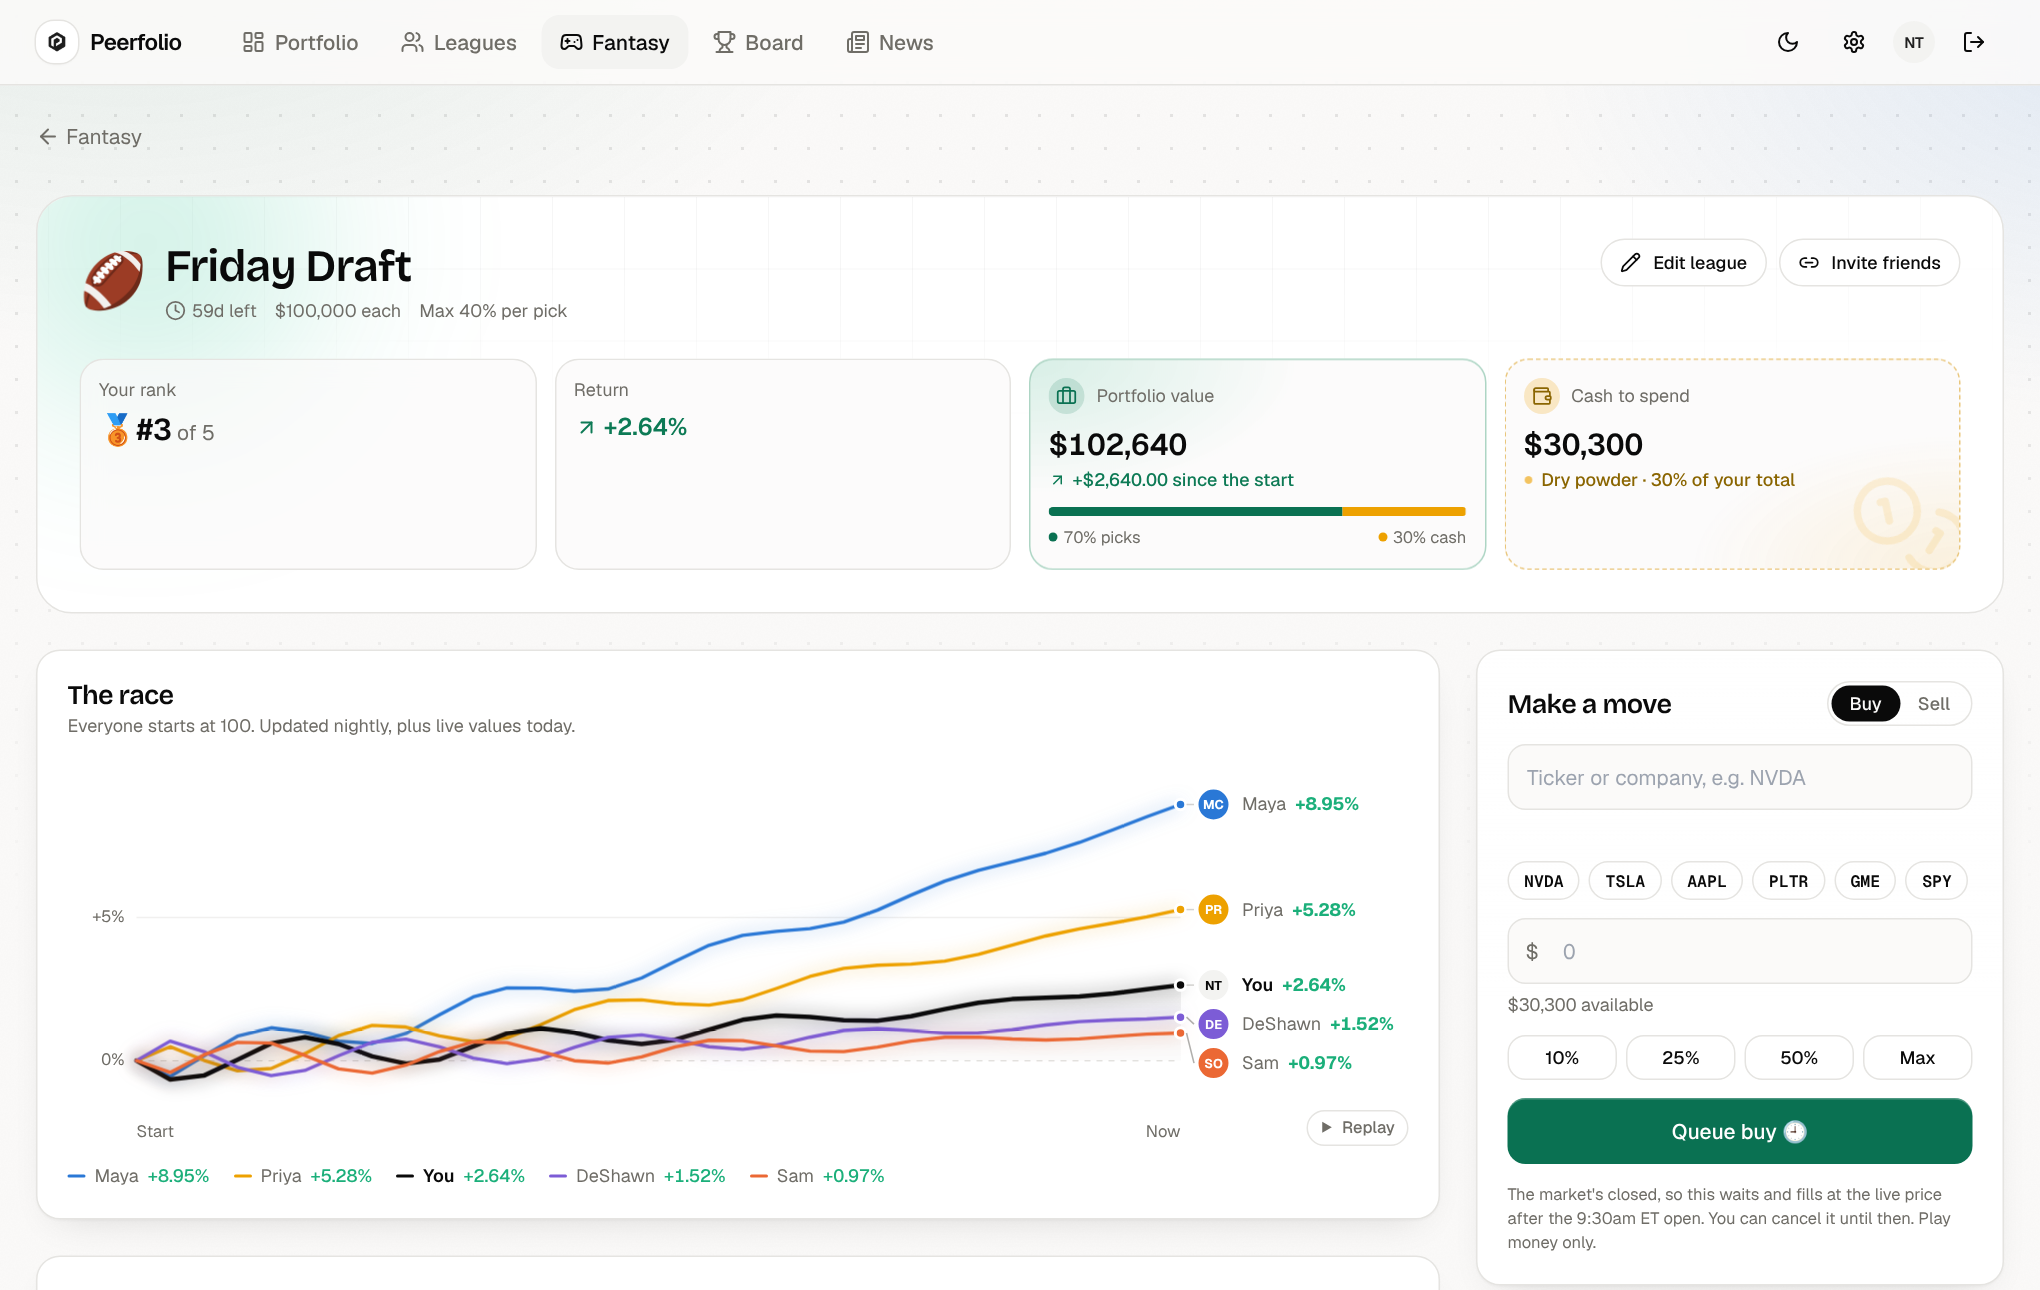
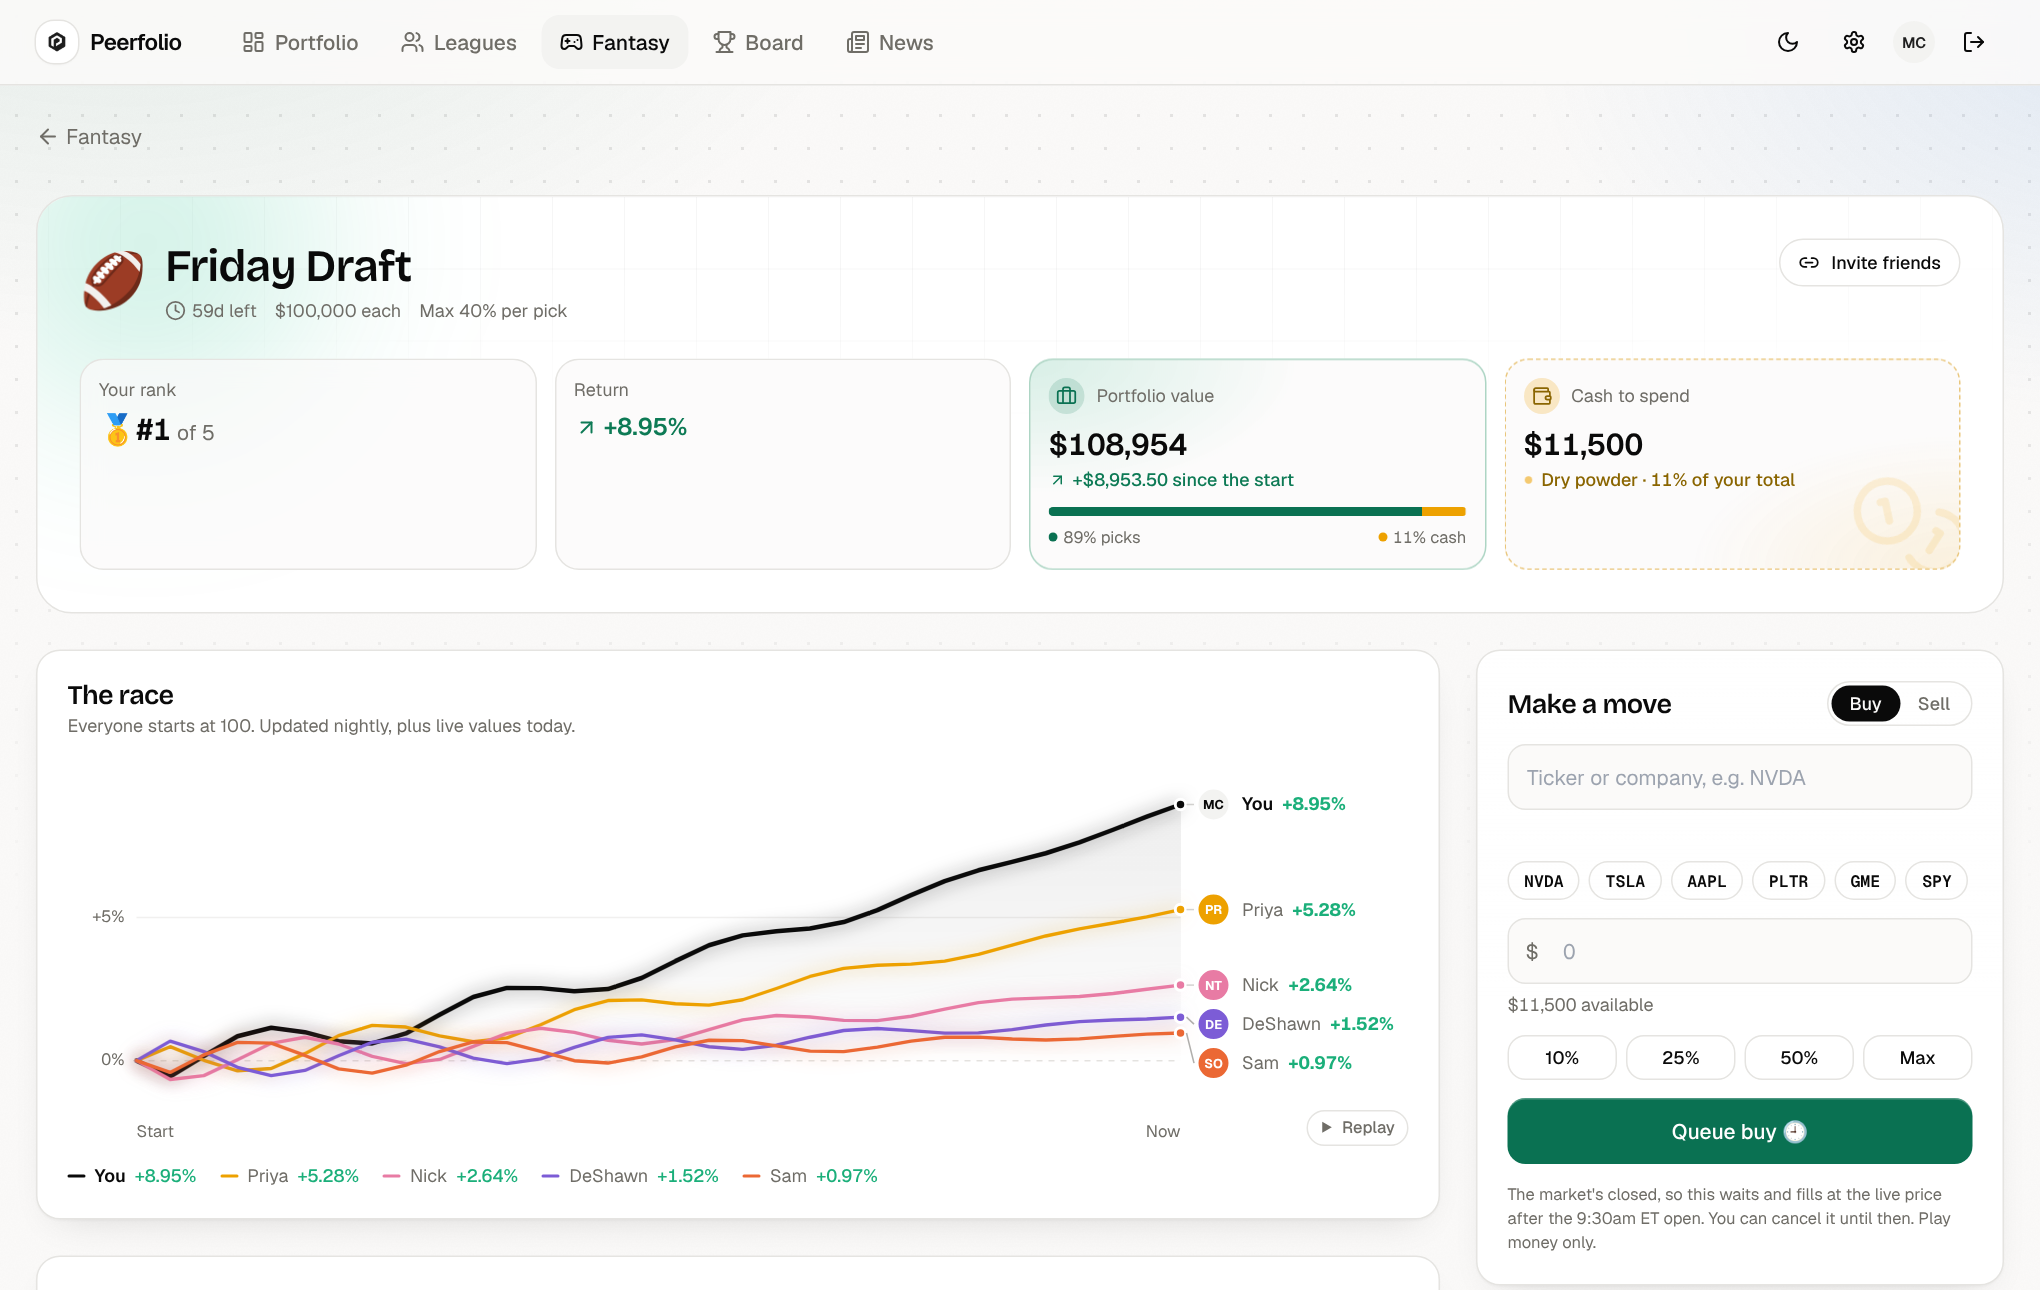
README: add holdings and news detail screenshots, reorder, use a neutral demo user
Re-shot every screenshot as a seeded demo user so the avatar no longer reads
as the maintainer, lowered the demo net worth, and moved Fantasy and Leagues
below Portfolio, News and the Board.

diff --git a/README.md b/README.md
@@ -29,12 +29,24 @@ Net worth, accounts and positions in one view. The return leaves deposits out.
 
 ![Portfolio page showing net worth, a one-month chart and linked accounts](docs/screenshots/portfolio.png)
 
-### Leagues
+Below it, every holding across every account rolled up into one list, with
+allocation, today's movers and the leagues you're in.
 
-A private group ranked on percentage return. Everyone is indexed to 100, so the
-chart compares rates of return, not who has more money.
+![Aggregated holdings table with weights, daily change and total return](docs/screenshots/portfolio-holdings.png)
 
-![A league's race chart and standings](docs/screenshots/leagues.png)
+### News
+
+![The daily brief with live-style market cards](docs/screenshots/news.png)
+
+The recap, Fear & Greed, the week's earnings and sector moves.
+
+![Daily recap, Fear & Greed gauge, upcoming earnings and sectors at a glance](docs/screenshots/news-details.png)
+
+### The Board
+
+Public, verified-only, percentages only.
+
+![The Board ranking top traders by return](docs/screenshots/board.png)
 
 ### Fantasy
 
@@ -43,15 +55,12 @@ an end date. Orders placed while the market is closed wait for the open.
 
 ![A fantasy league with the race chart and the trade panel](docs/screenshots/fantasy.png)
 
-### The Board
+### Leagues
 
-Public, verified-only, percentages only.
+A private group ranked on percentage return. Everyone is indexed to 100, so the
+chart compares rates of return, not who has more money.
 
-![The Board ranking top traders by return](docs/screenshots/board.png)
-
-### News
-
-![The daily brief with market cards and Fear & Greed](docs/screenshots/news.png)
+![A league's race chart and standings](docs/screenshots/leagues.png)
 
 ## What's shared, and what isn't
 
